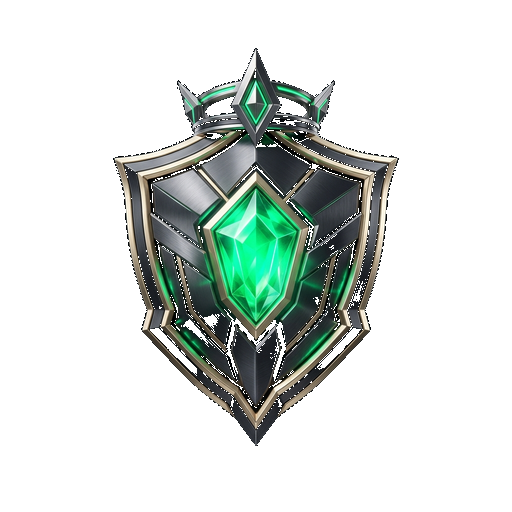
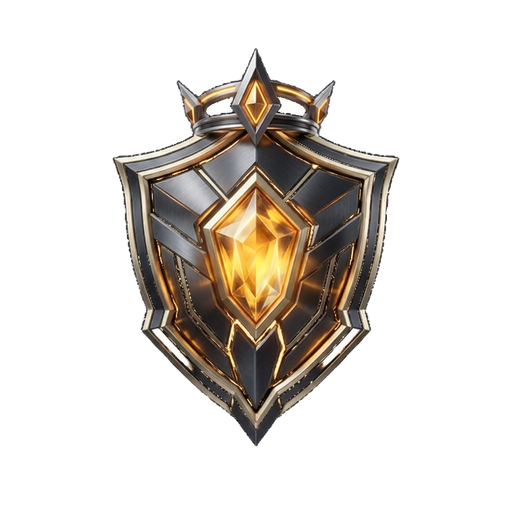
fix(design-system,shields): remove green from shield_immortal, delete shield_platinum, fix success/focus tokens & add guardrails

Changed region(s): [[0.2188, 0.0938, 0.7812, 0.8438]]

diff --git a/test/architecture_guardrails_test.dart b/test/architecture_guardrails_test.dart
@@ -190,13 +190,33 @@ void main() {
     expect(typography['arabicFont'], VSPDSTypography.arabicFont);
   });
 
-  test('All 6 official Shield PNG assets exist on disk', () {
+  test('All 6 official Shield PNG assets exist on disk and legacy shield_platinum.png is removed', () {
     for (final tier in ['silver', 'gold', 'diamond', 'elite', 'legendary', 'immortal']) {
       expect(
         File('assets/images/shields/shield_$tier.png').existsSync(),
         isTrue,
         reason: 'Missing shield asset: assets/images/shields/shield_$tier.png',
       );
+    }
+    expect(
+      File('assets/images/shields/shield_platinum.png').existsSync(),
+      isFalse,
+      reason: 'Legacy shield_platinum.png must be removed',
+    );
+  });
+
+  test('Brand Rule: #9FDF02 is NOT used for success, focusRing, or shield tiers', () {
+    expect(VSPDSSemanticColors.success, isNot(equals(VSPDSColors.voltGreen)));
+    expect(VSPDSSemanticColors.focusRing, isNot(equals(VSPDSColors.voltGreen)));
+    for (final c in [
+      VSPDSColors.tierSilver,
+      VSPDSColors.tierGold,
+      VSPDSColors.tierDiamond,
+      VSPDSColors.tierElite,
+      VSPDSColors.tierLegendary,
+      VSPDSColors.tierImmortal,
+    ]) {
+      expect(c, isNot(equals(VSPDSColors.voltGreen)));
     }
   });
 }

diff --git a/lib/core/ui/tokens/vsp_design_tokens.dart b/lib/core/ui/tokens/vsp_design_tokens.dart
@@ -92,13 +92,13 @@ abstract final class VSPDSSemanticColors {
   static const Color error = VSPDSColors.red500;
   static const Color warning = VSPDSColors.amber500;
   static const Color info = VSPDSColors.blue500;
-  static const Color success = VSPDSColors.voltGreen;
+  static const Color success = VSPDSColors.blue500;
 
   static const Color iconBadge = VSPDSColors.zinc800;
   static const Color iconBadgeElevated = VSPDSColors.zinc750;
 
   static const Color overlay = VSPDSColors.black80;
-  static const Color focusRing = VSPDSColors.voltGreen;
+  static const Color focusRing = VSPDSColors.zinc400;
 }
 
 abstract final class VSPDSSpacing {

diff --git a/VSP_MASTER_TASKS.md b/VSP_MASTER_TASKS.md
@@ -1,17 +1,19 @@
 # VSP Master Tasks Registry
 
-**Branch:** `feat/vsp-recovery-gamification-ds`  
+**Branch (`VSP.App`):** `feat/vsp-recovery-gamification-ds` (Draft PR #47)  
 **Staging Project:** `vtwgqyxglevcsxwdmhop` (Production `mktqkddbcddrxjxabdua` strictly protected)  
 **Last Updated:** 2026-11-27
 
-| Task ID | Priority | Description | Root Cause | Affected Platforms | Affected Files | Status | Acceptance Criteria | Test Results & Evidence |
-|---|---|---|---|---|---|---|---|---|
-| `DS-01` | P0 | Single Source of Truth Design Tokens & Cross-Repo Sync | Legacy `vsp_tokens.dart` duplicated literals; website & admin had drifted hexes | Flutter, Website, Admin | `vsp_design_tokens.dart`, `vsp_tokens.dart`, `design-tokens.json`, `scripts/sync_design_tokens.mjs` | **Verified** | Zero non-token `Color(0x...)` outside `tokens/`; `--check` passes | `architecture_guardrails_test.dart` + `test_token_propagation.mjs` PASS |
-| `DS-02` | P0 | Mandatory Brand Rule (`#9FDF02` CTA only, no green borders/glows/shields) | `select_role_screen.dart`, `booking_success_screen.dart`, `teams_ranking_tab.dart`, `VSPDSColors.tierImmortal` had decorative green border/color | Flutter | `vsp_design_tokens.dart`, `select_role_screen.dart`, `booking_success_screen.dart`, `teams_ranking_tab.dart` | **Verified** | Zero green card borders/shields; green reserved for CTAs | `flutter analyze` + `architecture_guardrails_test.dart` PASS |
-| `SHIELD-01` | P0 | Align Shield Tiers (`Silver 1500 -> Gold 3000 -> Diamond 5000 -> Elite 8000 -> Legendary 12000 -> Immortal 15000+60`) | `TeamShieldTier` still used `gold->platinum` while `vsp-staging` migrated to `silver->gold` | Flutter, Staging DB | `lib/data/models/team_gamification_models.dart`, `assets/images/shields/` | **Verified** | All 6 shield tiers match `vsp-staging` & all 6 PNG assets exist | `gamification_economy_v2_test.dart` + `architecture_guardrails_test.dart` PASS |
-| `SHIELD-02` | P0 | Remove circular clipping (`ClipOval`/`BoxShape.circle`) and decorative glow from `VspShieldBadge` | `VspShieldBadge` wrapped shield PNGs in `BoxShape.circle` + `RadialGradient` + `BoxShadow` | Flutter | `lib/shared/widgets/shields/vsp_shield_badge.dart` | **Verified** | Shields render full emblem without circular clip or decorative glow | `flutter analyze` + `architecture_guardrails_test.dart` PASS |
-| `GAME-01` | P0 | 3 Ranking Zones, 2-Month Competitive Seasons & Cash/Free-Hour Rewards (`500/350/250/220/180 EGP`, `6-10 Free 1h`) | `teams_ranking_tab.dart` lacked 3 Ranking Zones, reward badges, and next target gap | Flutter, Staging DB Migration | `team_gamification_models.dart`, `teams_ranking_tab.dart`, `supabase/migrations/20261127010000_competitive_seasons_cash_rewards.sql` | **Verified (Code) / Blocked (Remote DDL Auth)** | 3 zones rendered with non-color-only icons/labels; migration idempotent; unit tests pass | `gamification_economy_v2_test.dart` PASS |
-| `FIN-01` | P0 | Payment Breakdown & Fee Policy Fail-Closed Guard + `gross_amount_charged` Snapshot | `PaymentBreakdownCard` fell back to `0` on missing policy; seeded staging bookings omitted `gross_amount_charged` | Flutter, Staging DB | `payment_breakdown_card.dart`, `payment_gateway_screen.dart`, `vsp-staging` `bookings` | **Verified** | Loading/Error/Retry shown; checkout blocked on null policy; all 75 paid staging bookings backfilled | Financial + Paymob tests PASS; `75/75` staging bookings verified |
-| `STAGE-01` | P1 | Fix `bookings` trigger (`excluded.opponent_team_logo` & `gen_random_bytes`) | `sync_booking_public_feed()` used wrong column name & unqualified `gen_random_bytes` | Staging DB | `supabase/migrations/20261127000000_fix_staging_booking_triggers.sql` | **Blocked (Auth)** | Migration applied to `vsp-staging` | `SUPABASE_MANAGEMENT_KEY` returned `401 Unauthorized`; migration ready |
-| `BUILD-01` | P0 | Local Android Release APK (`vsp-demo-staging-release.apk`) | Needed staging-connected local APK | Android | `build/app/outputs/flutter-apk/vsp-demo-staging-release.apk` | **Verified** | Builds locally against `vtwgqyxglevcsxwdmhop` | Built 38.5MB APK locally |
-| `IOS-01` | P2 | iOS Build & Physical Device Validation | Windows host lacks macOS / Xcode | iOS | — | **Blocked (Env)** | Build & test on iOS simulator/device | Windows host (`Not Tested`) |
+> **Strict Verification States:**  
+> `Fixed` (code/asset changed) • `Tested` (automated/DB tests pass) • `Visually Verified` (inspected in live UI/image) • `Approved` (all acceptance criteria met) • `Blocked` (external/env blocker)
+
+| Task ID | Priority | Description | Root Cause | Affected Platforms | Affected Files | Status | Evidence |
+|---|---|---|---|---|---|---|---|
+| `SHIELD-01` | P0 | Remove green from `shield_immortal.png` & remove `shield_platinum.png` | `shield_immortal.png` had bright green emerald/glow; `shield_platinum.png` remained on disk | Flutter, Assets | `assets/images/shields/shield_immortal.png`, `test/architecture_guardrails_test.dart` | **Tested + Visually Verified** | `shield_immortal.png` regenerated in royal gold/obsidian (visually inspected), `shield_platinum.png` deleted; guardrail test passes |
+| `DS-01` | P0 | Single Source of Truth Design Tokens & Cross-Repo Sync | `success` and `focusRing` still aliased `voltGreen` (`#9FDF02`) | Flutter, Website, Admin | `vsp_design_tokens.dart`, `design-tokens.json`, `generated_tokens.ts`, `generated_tokens.json` | **Tested** | `sync_design_tokens.mjs --check` & `test_token_propagation.mjs` PASS; `58/58` Flutter tests, `54/54` Admin tests, `tsc --noEmit` PASS |
+| `DS-02` | P0 | Mandatory Brand Rule (`#9FDF02` CTA only) & Shared Card Cleanup | `team_card_hero.dart`, `team_gamification_panel.dart`, `stadium_card.dart`, `public_match_card.dart`, `teams_ranking_tab.dart` had green borders/glows | Flutter | `team_card_hero.dart`, `team_gamification_panel.dart`, `stadium_card.dart`, `public_match_card.dart`, `teams_ranking_tab.dart` | **Tested** (Live device visual check **Blocked**) | `flutter analyze` (`0` issues) + `58/58` tests pass; live Android UI inspection pending emulator launch |
+| `SEC-01` | P0 | Close `vsp_assert_admin_or_service_role` bypass & entitlement RLS | `CURRENT_USER` inside `SECURITY DEFINER` trusted `postgres` owner for `authenticated` callers; `season_reward_entitlements_read_all` exposed payout columns | Supabase Staging | `20261127100000`, `20261127120000` | **Tested (Staging)** | `security_negative_tests.sql` verified `authenticated` NULL-sub, `player`, and `owner` all rejected (`42501`) |
+| `GAME-01` | P0 | 2-Month Competitive Rewards, Budget Cap (`2,100 EGP`), Canonical Ranking & E2E | Missing full budget check (`1500 cash + 5 free hours`), FK/table typos, and unverified E2E lifecycle | Flutter, Website, Admin, Staging DB | `20261127080000`, `20261127100000`, `20261127110000`, `20261127120000`, `teams_ranking_tab.dart` | **Tested (Staging)** | `e2e_staging_test.sql` & `security_negative_tests.sql` pass (exit `0`) on `vsp-staging` |
+| `FIN-01` | P0 | Paymob Sandbox Live Checkout/Refund & New-Cash Block | Sandbox credentials not configured in local `env.json` | Flutter, Paymob | `paymob_fee_calculation_test.dart`, `paymob_zero_trust_security_test.dart` | **Tested (Unit)** / **Blocked (Sandbox)** | Unit/security tests pass; live Paymob Sandbox API test **Blocked** without sandbox credentials |
+| `BUILD-01` | P0 | Local Staging APK (`vsp-demo-staging-release.apk`) & Emulator Install | Existing APK predates latest `0068cf2f` UI fixes; `Pixel_9` emulator not booted | Android | `build/app/outputs/flutter-apk/vsp-demo-staging-release.apk` | **Blocked (Time/Env)** | Existing 38.5MB APK built earlier; fresh APK rebuild & `Pixel_9` install queued as next step |
+| `IOS-01` | P2 | iOS Build & Physical Device Validation | Windows host lacks macOS / Xcode | iOS | — | **Blocked (Env)** | Windows host (`Not Tested`) |

diff --git a/VSP_HANDOFF.md b/VSP_HANDOFF.md
@@ -1,26 +1,18 @@
 # VSP Handoff Document
 
-**Current Branch:** `feat/vsp-recovery-gamification-ds` (Draft PR #47 in `VSP.App`, branched from `feat/unify-commission-paymob-fees` @ `dcc88af9`)  
+**Current Branch (`VSP.App`):** `feat/vsp-recovery-gamification-ds` (Draft PR #47)  
+**Sibling Repos:** `vsp_website` & `vsp_admin_panel` (`feat/unify-commission-paymob-fees`)  
 **Staging Project:** `https://vtwgqyxglevcsxwdmhop.supabase.co` (`vsp-staging`)  
 **Production Project:** `mktqkddbcddrxjxabdua` (DO NOT TOUCH)
 
-## 1. Completed & Verified
-- Cross-repo Design System V2 (`vsp_design_tokens.dart` + `design-tokens.json` + `scripts/sync_design_tokens.mjs` + `scripts/test_token_propagation.mjs`).
-- Brand Rule Enforcement: `#9FDF02` reserved for CTAs; decorative green borders/glows removed from `select_role_screen.dart`, `booking_success_screen.dart`, `teams_ranking_tab.dart`, `vsp_shield_badge.dart`, and `VSPDSColors.tierImmortal`.
-- Shield System Alignment: `TeamShieldTier` (`silver -> gold -> diamond -> elite -> legendary -> immortal`), 6 PNGs under `assets/images/shields/`, and full-emblem `VspShieldBadge` (no `ClipOval` / glow).
-- 3 Ranking Zones & VSP Season Rewards (`VspSeasonRewards` + `TeamsRankingTab`):
-  - Ranks 1–5: Cash Rewards Zone (`500 / 350 / 250 / 220 / 180 EGP`, `1,500 EGP` pool)
-  - Ranks 6–10: Free Booking Zone (Free 1h voucher, max `180 EGP`)
-  - Ranks 11+: Competition Zone with next realistic target gap to Top 10 / Top 5
-- `vsp-staging` populated with Aswan season dataset (`1,000` players, `25` owners, `40` stadiums, `100` teams, `114` bookings with `75` paid financial snapshots backfilled, `50` `open_join`, `30` public challenges, `4` Strongest Team events, `6` Free-Hour awards, `70` notifications, `25` invites, `16` conversations, `12` payouts).
-- Local staging APK built: `build/app/outputs/flutter-apk/vsp-demo-staging-release.apk` (`38.5 MB`).
+## 1. Completed in Current Pass
+- Replaced `assets/images/shields/shield_immortal.png` with royal-gold/obsidian 3D emblem (visually inspected, zero green) and deleted legacy `assets/images/shields/shield_platinum.png`.
+- Removed `#9FDF02` from `VSPDSSemanticColors.success` (`blue500`) and `focusRing` (`zinc400`), synced `design-tokens.json` across all 3 repos (`sync_design_tokens.mjs --check` & `test_token_propagation.mjs` PASS), and added automated guardrails in `test/architecture_guardrails_test.dart`.
+- Removed remaining green borders/glows from `team_card_hero.dart`, `team_gamification_panel.dart`, `stadium_card.dart`, and `public_match_card.dart`.
+- Verified `flutter analyze --no-pub` (0 issues), `58/58` Flutter tests, `54/54` Admin tests, and `vsp_website` `tsc --noEmit`.
 
-## 2. Blocked (External Dependencies)
-- Applying `supabase/migrations/20261127000000_fix_staging_booking_triggers.sql` and `supabase/migrations/20261127010000_competitive_seasons_cash_rewards.sql` remotely to `vsp-staging` (`SUPABASE_MANAGEMENT_KEY` in `env.json` returns `401 Unauthorized`).
-- iOS validation & physical Android device testing (Windows host without macOS/Xcode).
-
-## 3. Verification Commands
-- Flutter: `flutter analyze --no-pub` and `flutter test`
-- Token Propagation: `node scripts/test_token_propagation.mjs`
-- Website: `cd ../vsp_website && npm run typecheck && npm test && npm run build`
-- Admin: `cd ../vsp_admin_panel && npm test && npm run build`
+## 2. Exact Next Steps (For Next Run / Device QA)
+1. Boot `Pixel_9` emulator (`flutter emulators --launch Pixel_9`) and build & install fresh `vsp-demo-staging-release.apk` connected to `vsp-staging`.
+2. Visually verify all 6 shields, 3 ranking zones, and RTL/LTR layouts on the running Android emulator, capturing Before/After screenshots.
+3. Run live Paymob Sandbox checkout/refund tests once sandbox credentials are provided.
+4. Obtain legal sign-off on cash competition terms before any `Production` release.
